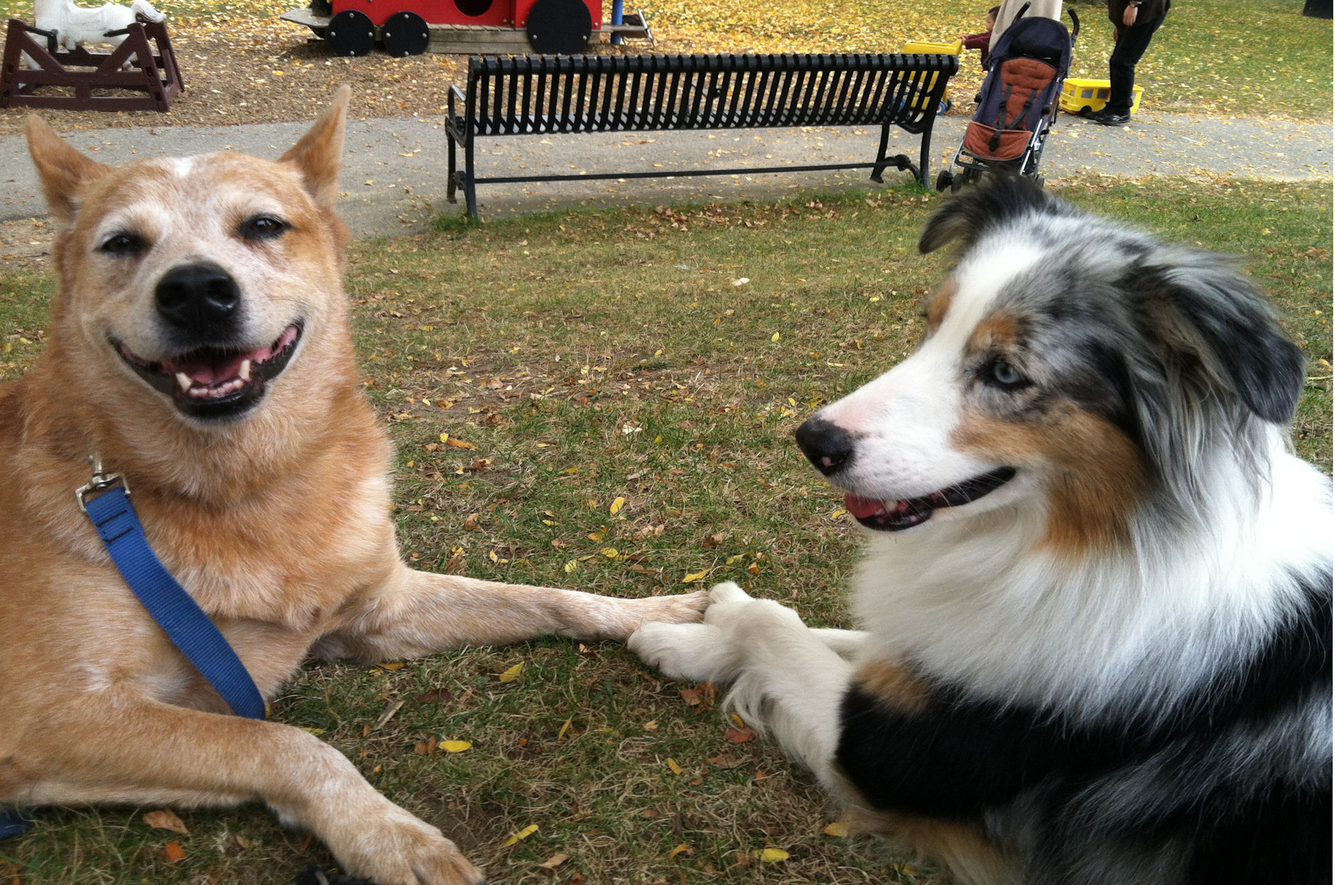
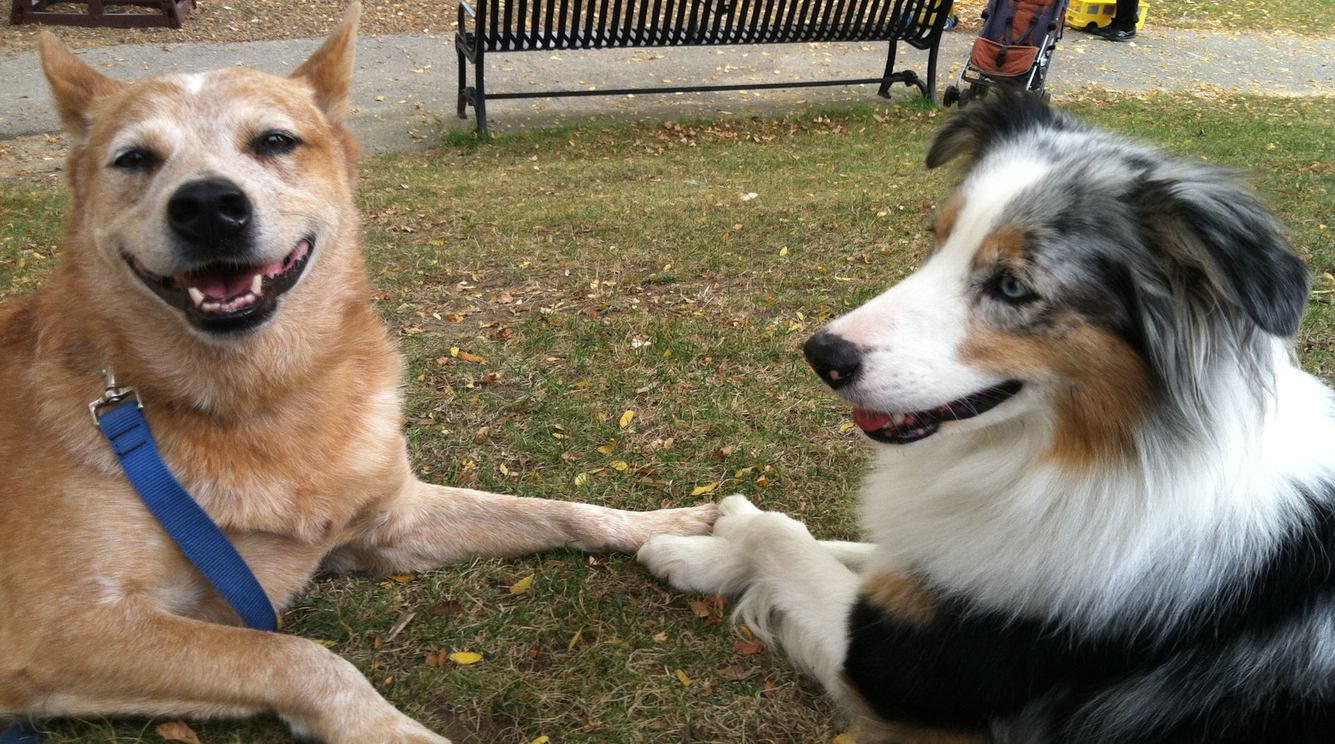
styling fixes

diff --git a/app/sass/contact.scss b/app/sass/contact.scss
@@ -27,13 +27,13 @@
   }
 
   .contact-form {
-	position: absolute;
-	height: 700px;
-	width: 700px;
-	top: 50px;
-	left: 50%;
-	background: none;
-	margin-left: -350px;
+    position: absolute;
+    height: 700px;
+    width: 700px;
+    top: 50px;
+    left: 50%;
+    background: none;
+    margin-left: -350px;
 
     div {
       position: absolute;
@@ -112,28 +112,28 @@
     font-size: 1.2em;
     color: white;
     background-color: rgb(81, 50, 203);
-	width: inherit;
+    width: inherit;
   }
 
   .match-error {
-	position: absolute;
-	top: 180px;
-	left: 0;
-	padding: 5px;
+    position: absolute;
+    top: 180px;
+    left: 0;
+    padding: 5px;
     color: red;
-	font-family: Arial;
+    font-family: Arial;
     font-weight: bold;
     font-size: 1em;
   }
 
   .user-msg {
-	position: absolute;
-	top: 720px;
-	font-family: Arial;
-	font-size: 1em;
-	font-weight: bold;
-	left: 0;
-	padding: 5px;
+    position: absolute;
+    top: 720px;
+    font-family: Arial;
+    font-size: 1em;
+    font-weight: bold;
+    left: 0;
+    padding: 5px;
   }
 
   .green {
@@ -145,11 +145,11 @@
   }
 
   input {
-	height: inherit;
-	background: inherit;
-	border: none;
-	color: $contact-form-input-color;
-	font-family: Arial;
+    height: inherit;
+    background: inherit;
+    border: 0;
+    color: $contact-form-input-color;
+    font-family: Arial;
     font-size: 1em;
 
     &:focus {
@@ -157,17 +157,17 @@
     }
 
     &:required {
-	 box-shadow: none;
+      box-shadow: none;
     }
   }
 
   textarea {
-	padding-top: 5px;
-	height: inherit;
-	background: inherit;
-	border: none;
-	color: $contact-form-input-color;
-	font-family: Arial;
+    padding-top: 5px;
+    height: inherit;
+    background: inherit;
+    border: 0;
+    color: $contact-form-input-color;
+    font-family: Arial;
     font-size: 1em;
 
     &:focus {
@@ -180,9 +180,9 @@
   }
 
   ::-webkit-input-placeholder { /* Chrome/Opera/Safari */
-	font-family: Arial;
-  	font-size: 1em;
- 	color: $contact-form-input-color;
+    font-family: Arial;
+    font-size: 1em;
+    color: $contact-form-input-color;
   }
 
   ::-moz-placeholder { /* Firefox 19+ */
@@ -192,26 +192,26 @@
   }
 
   :-ms-input-placeholder { /* IE 10+ */
-	font-family: Arial;
-  	font-size: 1em;
-	color: $contact-form-input-color;
+    font-family: Arial;
+    font-size: 1em;
+    color: $contact-form-input-color;
   }
 
   :-moz-placeholder { /* Firefox 18- */
-	font-family: Arial;
-  	font-size: 1em;
-	color: $contact-form-input-color;
+    font-family: Arial;
+    font-size: 1em;
+    color: $contact-form-input-color;
   }
 
   @media screen and (max-width: 850px)  {
 
-	.contact-form {
+    .contact-form {
       height: 700px;
       width: 300px;
       margin-left: -150px;
 	}
 
-	div {
+    div {
       &.name {
         height: 30px;
         width: 300px;

diff --git a/app/sass/services.scss b/app/sass/services.scss
@@ -14,6 +14,11 @@
     padding-left: 20px;
     margin-bottom: 10px;
     text-align: left;
+    font-size: $services-font-size - 1.25;
+
+    li {
+      font-size: inherit;
+    }
   }
 
   h1 {
@@ -24,7 +29,7 @@
 
   .packages {
     display: flex;
-    width: 80%;
+    width: 90%;
     margin: 0 auto;
     padding-top: 40px;
     text-align: left;
@@ -38,16 +43,16 @@
     }
 
     h3 {
-      font-size: $services-font-size - 1.5;
+      font-size: $services-font-size - 1.4;
       color: $services-h3-color;
       text-align: left;
     }
 
     h4 {
-      font-size: $services-font-size - 1.6;
+      font-size: $services-font-size - 1.5;
       color: $services-h3-color;
       text-align: left;
-      margin-top: 50px;
+      margin-top: 20px;
     }
 
     p {
@@ -101,7 +106,7 @@
   }
 
   @media screen and (max-width: 1280px) {
-    font-size: $services-font-size * .9;
+    font-size: $services-font-size * .95;
     height: $services-height * 1.2;
   }
 
@@ -115,12 +120,11 @@
   }
 
   @media screen and (max-width: 800px) {
-    font-size: $services-font-size * .8;
+    font-size: $services-font-size * .9;
     height: $services-height * 1.3;
   }
 
   @media screen and (max-width: 640px) {
-    font-size: $services-font-size * .7;
     height: $services-height * 1.8;
     padding-top: 150px;
 
@@ -134,7 +138,7 @@
 
       div {
         width: 100%;
-        margin-bottom: 30px;
+        margin: 0 auto 30px;
       }
 
 
@@ -151,7 +155,6 @@
   }
 
   @media screen and (max-width: 400px) {
-    font-size: $services-font-size * .6;
     height: $services-height * 1.9;
   }
 

diff --git a/app/sass/navbar.scss b/app/sass/navbar.scss
@@ -19,19 +19,23 @@
   line-height: inherit;
 }
 
-#name-fixednav, #about-fixednav, #bio-fixednav, #services-fixednav, #contact-fixednav {
+%nav-bar {
   color: $navbar-color;
   font-family: Arial;
   text-decoration: none;
+
+  &:hover {
+    color: $navbar-hover-highlight;
+  }
+
+  &.highlight {
+    color: $navbar-hover-highlight;
+    text-decoration: underline;
+  }
 }
 
-#name-fixednav:hover, #about-fixednav:hover, #bio-fixednav:hover, #services-fixednav:hover, #contact-fixednav:hover {
-  color: $navbar-hover-highlight;
-}
-
-#name-fixednav.highlight, #about-fixednav.highlight, #bio-fixednav.highlight, #services-fixednav.highlight, #contact-fixednav.highlight {
-  color: $navbar-hover-highlight;
-  text-decoration: underline;
+#name-fixednav, #about-fixednav, #bio-fixednav, #services-fixednav, #contact-fixednav {
+  @extend %nav-bar;
 }
 
 .ul-navbar {
@@ -80,16 +84,7 @@
 }
 
 #about-mobilenav, #bio-mobilenav, #services-mobilenav, #contact-mobilenav {
-  color: $navbar-color;
-}
-
-#about-mobilenav:hover, #bio-mobilenav:hover, #services-mobilenav:hover, #contact-mobilenav:hover {
-  color: $navbar-hover-highlight;
-}
-
-#about-mobilenav.highlight, #bio-mobilenav.highlight, #services-mobilenav.highlight, #contact-mobilenav.highlight {
-  color: $navbar-hover-highlight;
-  text-decoration: underline;
+    @extend %nav-bar;
 }
 
 .sidenav {

diff --git a/app/js/mainCtrl.js b/app/js/mainCtrl.js
@@ -57,7 +57,7 @@
                     ctrl.userMsg = 'Problem sending the message.';
 				  }
 				}, function(er) {
-                  console.log('in writeContact error')
+                  console.log('in writeContact error');
                   console.error('er = ', er);
                   ctrl.inRecaptcha = false;  // no longer in recaptcha
                   resetCaptcha();
@@ -81,12 +81,12 @@
 		}, function(err) {
           ctrl.formSuccess = false;
           ctrl.inRecaptcha = false;  // no longer in recaptcha
-          console.log('in verifyRecaptcha error')
+          console.log('in verifyRecaptcha error');
           console.error('err = ', err);
           resetCaptcha();
           ctrl.userMsg = 'Problem verifying you\'re not a robot.';
         });
-	}
+	};
 
 	var onLoadCallback = function() {
       grecaptcha.render(ctrl.currentRecaptchaId,
@@ -130,7 +130,7 @@
 	};
 
     ctrl.contactForm = function() {
-      console.log('in contact form')
+      console.log('in contact form');
       console.log('ctrl.contact', ctrl.contact);
       if (ctrl.contact.email === ctrl.contact.emailAgain) {
         ctrl.userMsg = '';
@@ -145,7 +145,7 @@
         ctrl.formSuccess = false;
         ctrl.userMsg = 'There was a problem with this form';
       }
-    }
+    };
   }
 
   angular .module('takeTheLead')

diff --git a/app/index.html b/app/index.html
@@ -58,6 +58,7 @@
 
       <!--Picturefill image display-->
       <picture>
+        <source srcset="images/Dusty&Red_320.jpg" media="(max-width: 320px)">
         <source srcset="images/Dusty&Red_400.jpg" media="(max-width: 400px)">
         <source srcset="images/Dusty&Red_640.jpg" media="(max-width: 640px)">
         <source srcset="images/Dusty&Red_800.jpg" media="(max-width: 800px)">
@@ -134,8 +135,8 @@
           </div>
 		  <div zum-waypoint="waypoints" down="inServices.up" up="inServices.down" offset="10%"></div>
 		  <div id="contact" class="showcase" zum-waypoint="waypoints" down="inContact.down" up="inContact.up" offset="10%">
-            <h1>Contact Take The Lead</h1>
-            <h2>Call Take The Lead today at (954) 649-6421</h2>
+            <h1>Contact "Take The Lead"</h1>
+            <h2>Call "Take The Lead" today at (954) 649-6421</h2>
             <h2>Or email us at <a href="mailto:tina.alderman@gmail.com">tina.alderman@gmail.com</a></h2>
             <h2>Or fill out the contact form below</h2>
             <div class="contact-form-container">

diff --git a/app/sass/_variables.scss b/app/sass/_variables.scss
@@ -38,7 +38,7 @@ $services-h1-color: #8b007a;
 $services-h2-color: darkblue;
 $services-h3-color: maroon;
 $services-background: rgb(50, 205, 133);
-$services-font-size: 2.3em;
+$services-font-size: 2.1em;
 $services-packages-background: #fff;
 $services-packages-color: #000;
 $services-button-background: #5f00ff;

diff --git a/app/sass/home.scss b/app/sass/home.scss
@@ -26,7 +26,7 @@
 
 .scrollable-content {
   position: relative;
-  top: 180px;
+  top: 140px;
   left: 0;
   width: inherit;
 
@@ -107,6 +107,10 @@
         background-color: $home-button-two-hover-highlight;
       }
     }
+  }
+
+  @media screen and (max-width: 640px) {
+    top: 180px;
   }
 }
 

diff --git a/app/sass/bio.scss b/app/sass/bio.scss
@@ -18,6 +18,14 @@
   img {
     padding: 30px 0;
     width: 200px;
+
+    @media screen and (max-width: 640px) {
+      width: 150px;
+    }
+
+    @media screen and (max-width: 400px) {
+      width: 100px;
+    }
   }
 
   .bio-text {

diff --git a/app/sass/about.scss b/app/sass/about.scss
@@ -58,6 +58,7 @@
     img {
       float: none;
       margin-right: 0;
+      width: 200px;
     }
   }
 
